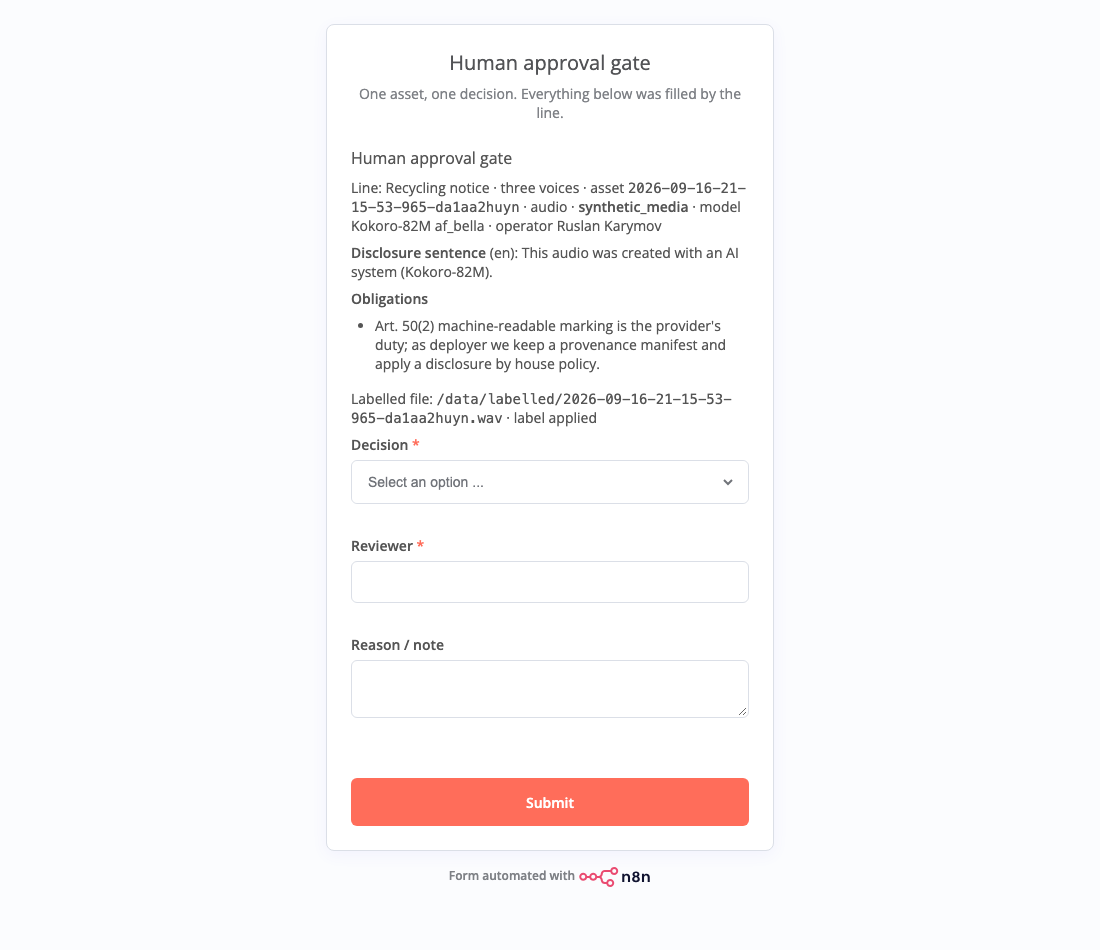
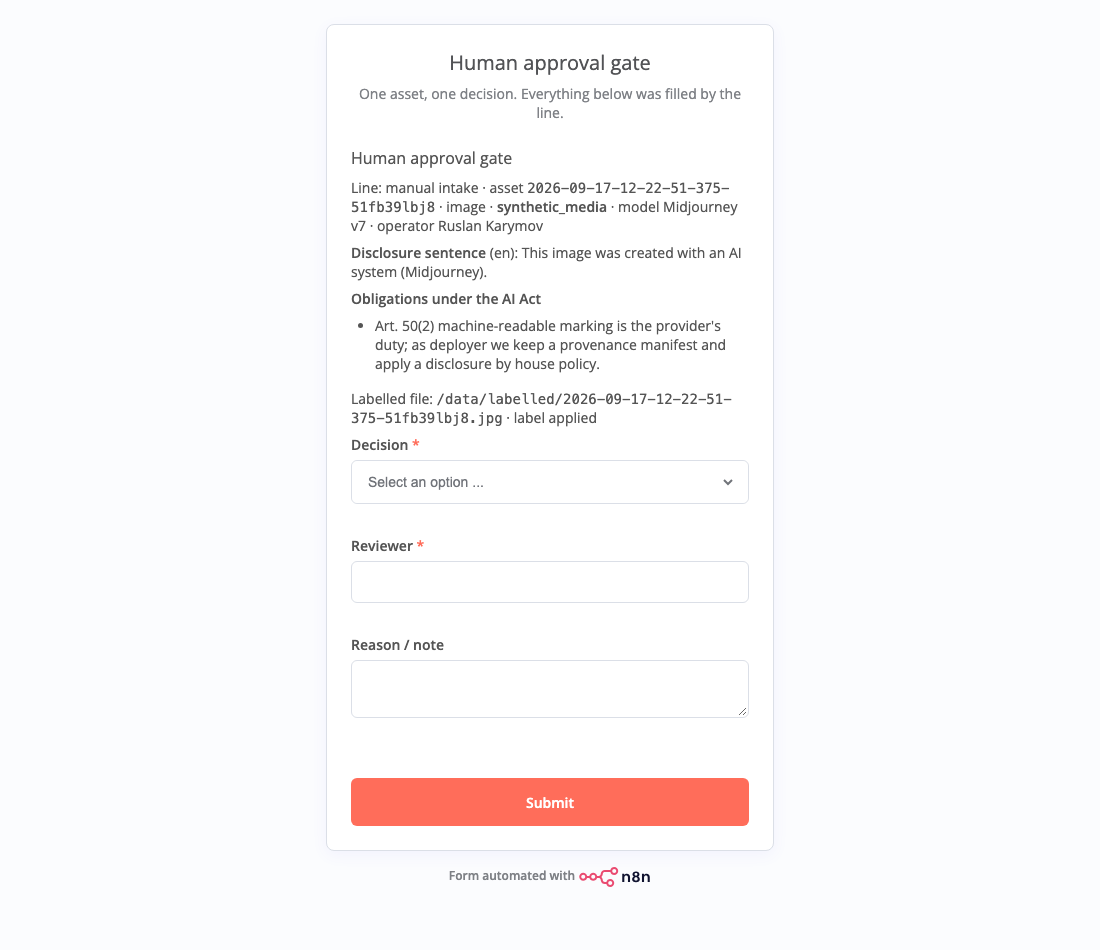
Case media regenerated from the Postgres ledger: audit view with chain verification, gate, map

Changed region(s): [[0.3091, 0.1832, 0.68, 0.2747], [0.3709, 0.2747, 0.4945, 0.3358], [0.34, 0.4274, 0.4636, 0.4579]]

diff --git a/docs/audit-view.html b/docs/audit-view.html
@@ -19,8 +19,8 @@ code{font:12px ui-monospace,SFMono-Regular,Menlo,monospace}pre{white-space:pre-w
 .empty{padding:14px 18px;color:var(--mut);margin:0}.ev{font-size:12px;color:var(--mut)}a{color:var(--acc)}.foot{padding:8px 18px;color:var(--mut);font-size:12px}
 footer{padding:0 32px 40px;color:var(--mut);font-size:12px}
 </style></head><body>
-<header><h1>Audit view · AI Act Transparency Kit</h1><p>What the auditor reads instead of the pipeline. Deployer obligations under the EU AI Act, filled automatically by the line. Generated 2026-09-17 08:29.</p></header>
-<div class="stats"><div class="stat"><b>10</b><span>AI systems on the instance</span></div><div class="stat"><b>2</b><span>reach people uncovered</span></div><div class="stat"><b>0</b><span>need a decision</span></div><div class="stat"><b>6</b><span>synthetic media assets</span></div><div class="stat"><b>1</b><span>generated texts</span></div><div class="stat"><b>7</b><span>decisions logged</span></div><div class="stat"><b>0</b><span>awaiting a human</span></div></div>
-<main><section><div class="hd"><span class="n">1</span><h2>AI-systems registry</h2><span class="art">voluntary · supports Art. 4 literacy</span></div><p class="what">Every AI system on this n8n instance, with path analysis: from each node that calls a model, every path forward to a node that reaches people, and what stands in between. Plus every external generator declared at intake. Read from the instance, not typed by hand.</p><div class="wrap"><table><thead><tr><th>Status</th><th>Workflow / line</th><th>System (node)</th><th>Node type</th><th>Model</th><th>Reaches people via</th><th>Evidence (path)</th><th>Source</th><th>Assets</th></tr></thead><tbody><tr><td><span class="pill bad">uncovered</span></td><td>Sample: social post drafter (no gate) <span class="pill muted">inactive</span></td><td>Draft post with GPT</td><td><code>langchain.openAi</code></td><td>gpt-4o-mini</td><td>Publish to LinkedIn</td><td><span class="ev">Draft post with GPT → Voice-over (ElevenLabs) → Publish to LinkedIn — no disclosure, no human gate on this path</span></td><td>workflow node</td><td></td></tr><tr><td><span class="pill bad">uncovered</span></td><td>Sample: social post drafter (no gate) <span class="pill muted">inactive</span></td><td>Voice-over (ElevenLabs) <span class="pill warn">face/voice</span></td><td><code>httpRequest</code></td><td>api.elevenlabs.io</td><td>Publish to LinkedIn</td><td><span class="ev">Voice-over (ElevenLabs) → Publish to LinkedIn — no disclosure, no human gate on this path</span></td><td>workflow node</td><td></td></tr><tr><td><span class="pill ok">disclosed</span></td><td>Recycling notice · three voices <span class="pill ok">active</span></td><td>Kokoro TTS (local)</td><td><code>httpRequest</code></td><td>host.docker.internal:8880</td><td>Publish to site [exit]</td><td><span class="ev">Kokoro TTS (local) → Attach fields → One voice at a time → Human approved? → Prepare publish → Publish to site [exit]</span></td><td>workflow node</td><td></td></tr><tr><td><span class="pill ok">disclosed</span></td><td>manual intake</td><td>gpt-4o 2024-08</td><td><code>external generator</code></td><td>gpt-4o</td><td></td><td><span class="ev">declared at intake, passed through this kit (text), decision: editorial_exception</span></td><td>declared in manifest</td><td>1</td></tr><tr><td><span class="pill ok">disclosed</span></td><td>manual intake</td><td>Midjourney v7</td><td><code>external generator</code></td><td>Midjourney</td><td></td><td><span class="ev">declared at intake, passed through this kit (image), decision: disclosed</span></td><td>declared in manifest</td><td>1</td></tr><tr><td><span class="pill ok">disclosed</span></td><td>manual intake</td><td>ElevenLabs Multilingual v2</td><td><code>external generator</code></td><td>ElevenLabs</td><td></td><td><span class="ev">declared at intake, passed through this kit (audio), decision: disclosed</span></td><td>declared in manifest</td><td>1</td></tr><tr><td><span class="pill ok">disclosed</span></td><td>Recycling notice · three voices</td><td>Kokoro-82M af_bella</td><td><code>external generator</code></td><td>Kokoro-82M</td><td></td><td><span class="ev">declared at intake, passed through this kit (audio), decision: disclosed</span></td><td>declared in manifest</td><td>1</td></tr><tr><td><span class="pill ok">disclosed</span></td><td>Recycling notice · three voices</td><td>Kokoro-82M am_adam</td><td><code>external generator</code></td><td>Kokoro-82M</td><td></td><td><span class="ev">declared at intake, passed through this kit (audio), decision: disclosed</span></td><td>declared in manifest</td><td>1</td></tr><tr><td><span class="pill muted">internal</span></td><td>manual intake</td><td>HeyGen Avatar IV</td><td><code>external generator</code></td><td>HeyGen</td><td></td><td><span class="ev">declared at intake, passed through this kit (video), decision: returned</span></td><td>declared in manifest</td><td>1</td></tr><tr><td><span class="pill muted">internal</span></td><td>Recycling notice · three voices</td><td>Kokoro-82M bf_emma</td><td><code>external generator</code></td><td>Kokoro-82M</td><td></td><td><span class="ev">declared at intake, passed through this kit (audio), decision: returned</span></td><td>declared in manifest</td><td>1</td></tr></tbody></table></div><p class="foot">Generated 2026-09-17 08:29 · 4 workflows scanned: AI Act Transparency Kit — Audit view · AI Act Transparency Kit · Recycling notice · three voices · Sample: social post drafter (no gate)<br>Rules: internal: no path to a publishing node · disclosed: every path passes a disclosure step (this kit or a node tagged [AI disclosure]) · editorial: human gate only, text with a named responsible person · verify: destination unclear, tag it [exit] · uncovered: a path reaches people with neither · likeness: face/voice generator reaches people without disclosure</p></section><section><div class="hd"><span class="n">2</span><h2>Synthetic media and deep fakes</h2><span class="art">Art. 50(4) §1 · Art. 50(2)</span></div><p class="what">Images, video and audio. A real person depicted means deep fake: visible disclosure plus consent on file. Provenance manifest for all of them.</p><div class="wrap"><table><thead><tr><th>ID</th><th>Type</th><th>Category</th><th>Real person</th><th>Consent</th><th>Disclosure</th><th>Model</th><th>Prompt hash</th><th>Operator</th><th>Status</th><th>Artefact</th></tr></thead><tbody><tr><td><code>2026-09-17-08-29-19-642-da1aa21s0u</code></td><td>audio</td><td><span class="pill muted">synthetic_media</span></td><td>no</td><td></td><td>metadata + sentence at publication (house policy)</td><td>Kokoro-82M bf_emma</td><td><code>da1aa29f4115</code></td><td>Ruslan Karymov</td><td><span class="pill bad">returned</span></td><td>/data/labelled/2026-09-17-08-29-19-642-da1aa21s0u.wav</td></tr><tr><td><code>2026-09-17-08-28-59-374-da1aa2yzai</code></td><td>audio</td><td><span class="pill muted">synthetic_media</span></td><td>no</td><td></td><td>metadata + sentence at publication (house policy)</td><td>Kokoro-82M am_adam</td><td><code>da1aa29f4115</code></td><td>Ruslan Karymov</td><td><span class="pill ok">disclosed</span></td><td>/data/labelled/2026-09-17-08-28-59-374-da1aa2yzai.wav</td></tr><tr><td><code>2026-09-17-08-28-40-809-da1aa2cq0f</code></td><td>audio</td><td><span class="pill muted">synthetic_media</span></td><td>no</td><td></td><td>metadata + sentence at publication (house policy)</td><td>Kokoro-82M af_bella</td><td><code>da1aa29f4115</code></td><td>Ruslan Karymov</td><td><span class="pill ok">disclosed</span></td><td>/data/labelled/2026-09-17-08-28-40-809-da1aa2cq0f.wav</td></tr><tr><td><code>2026-09-17-08-28-16-279-472390r8xn</code></td><td>audio</td><td><span class="pill muted">deepfake</span></td><td>yes</td><td>consent/2026-09-16-rk-voice.pdf</td><td>metadata + sentence at publication (law)</td><td>ElevenLabs Multilingual v2</td><td><code>4723904f3e3a</code></td><td>Ruslan Karymov</td><td><span class="pill ok">disclosed</span></td><td>/data/labelled/2026-09-17-08-28-16-279-472390r8xn.mp3</td></tr><tr><td><code>2026-09-17-08-28-09-945-8aa1e5ctyb</code></td><td>video</td><td><span class="pill muted">deepfake</span></td><td>yes</td><td>consent/2026-09-16-rk-likeness.pdf</td><td>burnt-in label (law)</td><td>HeyGen Avatar IV</td><td><code>8aa1e5b510ab</code></td><td>Ruslan Karymov</td><td><span class="pill bad">returned</span></td><td>/data/labelled/2026-09-17-08-28-09-945-8aa1e5ctyb.mp4</td></tr><tr><td><code>2026-09-17-08-28-06-458-d13dccyo0s</code></td><td>image</td><td><span class="pill muted">deepfake</span></td><td>yes</td><td>consent/2026-09-16-rk-likeness.pdf</td><td>burnt-in label (law)</td><td>Midjourney v7</td><td><code>d13dcc3f986d</code></td><td>Ruslan Karymov</td><td><span class="pill ok">disclosed</span></td><td>/data/labelled/2026-09-17-08-28-06-458-d13dccyo0s.jpg</td></tr></tbody></table></div></section><section><div class="hd"><span class="n">3</span><h2>Generated text</h2><span class="art">Art. 50(4) §2</span></div><p class="what">Text published to inform the public must say it is AI-generated, unless a named person exercised editorial control and holds responsibility. The gate records which of the two applies.</p><div class="wrap"><table><thead><tr><th>ID</th><th>Public information</th><th>Disclosure</th><th>Responsible person</th><th>Model</th><th>Operator</th><th>Decided</th><th>Text</th></tr></thead><tbody><tr><td><code>2026-09-17-08-28-03-972-1f7d6d9aa1</code></td><td>yes</td><td><span class="pill warn">editorial_exception</span></td><td>Ruslan Karymov</td><td>gpt-4o</td><td>Ruslan Karymov</td><td>2026-09-17 08:28</td><td><details><summary>От 1 октомври разделното събиране на отпадъци във Варна се м…</summary><pre>От 1 октомври разделното събиране на отпадъци във Варна се мести във вторник и петък. Сините контейнери са за хартия, жълтите за пластмаса и метал, зелените за стъкло. Моля, изнасяйте контейнерите до 7 ч.</pre></details></td></tr></tbody></table></div></section><section><div class="hd"><span class="n">4</span><h2>Approval log</h2><span class="art">voluntary · Art. 26(6)-style record</span></div><p class="what">Who approved or returned what, when, and why. Human oversight as a property of the line. Record-keeping is mandatory only for high-risk systems (Art. 26(6)); this kit keeps it anyway. Reviewer identity is self-declared unless the gate is behind an authenticated channel.</p><div class="wrap"><table><thead><tr><th>Decided</th><th>ID</th><th>Reviewer</th><th>Decision</th><th>Outcome</th><th>Reason</th><th>Artefact</th><th>Execution</th></tr></thead><tbody><tr><td>2026-09-17 08:29</td><td><code>2026-09-17-08-29-19-642-da1aa21s0u</code></td><td>Ruslan Karymov</td><td>Return — needs changes</td><td><span class="pill bad">returned</span></td><td>Voice too fast for a public notice.</td><td>/data/labelled/2026-09-17-08-29-19-642-da1aa21s0u.wav</td><td><code>72</code></td></tr><tr><td>2026-09-17 08:29</td><td><code>2026-09-17-08-28-59-374-da1aa2yzai</code></td><td>Ruslan Karymov</td><td>Approve — publish with the disclosure</td><td><span class="pill ok">disclosed</span></td><td>Stock voice, disclosure in metadata and on the page.</td><td>/data/labelled/2026-09-17-08-28-59-374-da1aa2yzai.wav</td><td><code>71</code></td></tr><tr><td>2026-09-17 08:28</td><td><code>2026-09-17-08-28-40-809-da1aa2cq0f</code></td><td>Ruslan Karymov</td><td>Approve — publish with the disclosure</td><td><span class="pill ok">disclosed</span></td><td>Stock voice, disclosure in metadata and on the page.</td><td>/data/labelled/2026-09-17-08-28-40-809-da1aa2cq0f.wav</td><td><code>70</code></td></tr><tr><td>2026-09-17 08:28</td><td><code>2026-09-17-08-28-16-279-472390r8xn</code></td><td>Ruslan Karymov</td><td>Approve — publish with the disclosure</td><td><span class="pill ok">disclosed</span></td><td>Voice clone of the operator himself</td><td>/data/labelled/2026-09-17-08-28-16-279-472390r8xn.mp3</td><td><code>68</code></td></tr><tr><td>2026-09-17 08:28</td><td><code>2026-09-17-08-28-09-945-8aa1e5ctyb</code></td><td>Ruslan Karymov</td><td>Return — needs changes</td><td><span class="pill bad">returned</span></td><td>Lip sync drifts after second 8. Regenerate before publishing.</td><td>/data/labelled/2026-09-17-08-28-09-945-8aa1e5ctyb.mp4</td><td><code>67</code></td></tr><tr><td>2026-09-17 08:28</td><td><code>2026-09-17-08-28-06-458-d13dccyo0s</code></td><td>Ruslan Karymov</td><td>Approve — publish with the disclosure</td><td><span class="pill ok">disclosed</span></td><td>Consent on file, label visible bottom-left.</td><td>/data/labelled/2026-09-17-08-28-06-458-d13dccyo0s.jpg</td><td><code>66</code></td></tr><tr><td>2026-09-17 08:28</td><td><code>2026-09-17-08-28-03-972-1f7d6d9aa1</code></td><td>Ruslan Karymov</td><td>Editorial exception — I edited this text and take editorial responsibility (text only)</td><td><span class="pill warn">editorial_exception</span></td><td>Checked the dates against the municipal order and edited the last sentence. I sign this text.</td><td>text</td><td><code>65</code></td></tr></tbody></table></div></section></main>
-<footer>Scope: deployer duties under Article 50 (in force 2 Aug 2026) and Article 4. High-risk obligations (Annex III) are out of scope and not claimed. Sources: files under /data written by the “AI Act Transparency Kit” workflow.</footer>
+<header><h1>Audit view · AI Act Transparency Kit</h1><p>What the auditor reads instead of the pipeline. Deployer obligations under the EU AI Act, filled automatically by the line. Generated 2026-09-17 12:23.</p></header>
+<div class="stats"><div class="stat"><b>11</b><span>AI systems on the instance</span></div><div class="stat"><b>2</b><span>reach people uncovered</span></div><div class="stat"><b>0</b><span>need a decision</span></div><div class="stat"><b>7</b><span>synthetic media assets</span></div><div class="stat"><b>3</b><span>generated texts</span></div><div class="stat"><b>9</b><span>decisions logged</span></div><div class="stat"><b>1</b><span>awaiting a human</span></div></div>
+<main><section><div class="hd"><span class="n">!</span><h2>Awaiting a human</h2><span class="art">the gate · a named person decides</span></div><p class="what">Assets stopped at the gate. Open the link, decide, and the row moves to the approval log.</p><div class="wrap"><table><thead><tr><th>Since</th><th>Line</th><th>Asset</th><th>Type</th><th>Category</th><th>Model</th><th>Operator</th><th>Gate</th></tr></thead><tbody><tr><td>2026-09-17 12:22</td><td>manual intake</td><td><code>2026-09-17-12-22-51-375-51fb39lbj8</code></td><td>image</td><td><span class="pill muted">synthetic_media</span></td><td>Midjourney</td><td>Ruslan Karymov</td><td><a href="http://localhost:5678/form-waiting/18?signature=f33ae8c598be295a239de155cc55b2e4da4c84144cc12c241e669cae9f25308f">open the gate →</a></td></tr></tbody></table></div></section><section><div class="hd"><span class="n">1</span><h2>AI-systems registry</h2><span class="art">voluntary · supports Art. 4 literacy</span></div><p class="what">Every AI system on this n8n instance, with path analysis: from each node that calls a model, every path forward to a node that reaches people, and what stands in between. Plus every external generator declared at intake. Read from the instance, not typed by hand.</p><div class="wrap"><table><thead><tr><th>Status</th><th>Workflow / line</th><th>System (node)</th><th>Node type</th><th>Model</th><th>Reaches people via</th><th>Evidence (path)</th><th>Source</th><th>Assets</th></tr></thead><tbody><tr><td><span class="pill bad">uncovered</span></td><td>Sample: social post drafter (no gate) <span class="pill muted">inactive</span></td><td>Draft post with GPT</td><td><code>langchain.openAi</code></td><td>gpt-4o-mini</td><td>Publish to LinkedIn</td><td><span class="ev">Draft post with GPT → Voice-over (ElevenLabs) → Publish to LinkedIn — no disclosure, no human gate on this path</span></td><td>workflow node</td><td></td></tr><tr><td><span class="pill bad">uncovered</span></td><td>Sample: social post drafter (no gate) <span class="pill muted">inactive</span></td><td>Voice-over (ElevenLabs) <span class="pill warn">face/voice</span></td><td><code>httpRequest</code></td><td>api.elevenlabs.io</td><td>Publish to LinkedIn</td><td><span class="ev">Voice-over (ElevenLabs) → Publish to LinkedIn — no disclosure, no human gate on this path</span></td><td>workflow node</td><td></td></tr><tr><td><span class="pill ok">disclosed</span></td><td>Recycling notice · three voices <span class="pill ok">active</span></td><td>Kokoro TTS (local)</td><td><code>httpRequest</code></td><td>host.docker.internal:8880</td><td>Publish to site [exit]</td><td><span class="ev">Kokoro TTS (local) → Attach fields → One voice at a time → Human approved? → Prepare publish → Publish to site [exit]</span></td><td>workflow node</td><td></td></tr><tr><td><span class="pill ok">disclosed</span></td><td>manual intake</td><td>gpt-4o 2024-08</td><td><code>external generator</code></td><td>gpt-4o</td><td></td><td><span class="ev">declared at intake, passed through this kit (text), decision: editorial_exception</span></td><td>declared in manifest</td><td>1</td></tr><tr><td><span class="pill ok">disclosed</span></td><td>manual intake</td><td>Midjourney v7</td><td><code>external generator</code></td><td>Midjourney</td><td></td><td><span class="ev">declared at intake, passed through this kit (image), decision: disclosed</span></td><td>declared in manifest</td><td>1</td></tr><tr><td><span class="pill ok">disclosed</span></td><td>manual intake</td><td>ElevenLabs Multilingual v2</td><td><code>external generator</code></td><td>ElevenLabs</td><td></td><td><span class="ev">declared at intake, passed through this kit (audio), decision: disclosed</span></td><td>declared in manifest</td><td>1</td></tr><tr><td><span class="pill ok">disclosed</span></td><td>Recycling notice · three voices</td><td>Kokoro-82M af_bella</td><td><code>external generator</code></td><td>Kokoro-82M</td><td></td><td><span class="ev">declared at intake, passed through this kit (audio), decision: disclosed</span></td><td>declared in manifest</td><td>1</td></tr><tr><td><span class="pill ok">disclosed</span></td><td>Recycling notice · three voices</td><td>Kokoro-82M am_adam</td><td><code>external generator</code></td><td>Kokoro-82M</td><td></td><td><span class="ev">declared at intake, passed through this kit (audio), decision: disclosed</span></td><td>declared in manifest</td><td>1</td></tr><tr><td><span class="pill ok">disclosed</span></td><td>manual intake</td><td>gpt-4o</td><td><code>external generator</code></td><td>gpt-4o</td><td></td><td><span class="ev">declared at intake, passed through this kit (text), decision: not_required</span></td><td>declared in manifest</td><td>2</td></tr><tr><td><span class="pill muted">internal</span></td><td>manual intake</td><td>HeyGen Avatar IV</td><td><code>external generator</code></td><td>HeyGen</td><td></td><td><span class="ev">declared at intake, passed through this kit (video), decision: returned</span></td><td>declared in manifest</td><td>1</td></tr><tr><td><span class="pill muted">internal</span></td><td>Recycling notice · three voices</td><td>Kokoro-82M bf_emma</td><td><code>external generator</code></td><td>Kokoro-82M</td><td></td><td><span class="ev">declared at intake, passed through this kit (audio), decision: returned</span></td><td>declared in manifest</td><td>1</td></tr></tbody></table></div><p class="foot">Generated 2026-09-17 12:22 · 4 workflows scanned: AI Act Transparency Kit — Audit view · AI Act Transparency Kit · Recycling notice · three voices · Sample: social post drafter (no gate)<br>Rules: internal: no path to a publishing node · disclosed: every path passes a disclosure step (this kit or a node tagged [AI disclosure]) · editorial: human gate only, text with a named responsible person · verify: destination unclear, tag it [exit] · uncovered: a path reaches people with neither · likeness: face/voice generator reaches people without disclosure</p></section><section><div class="hd"><span class="n">2</span><h2>Synthetic media and deep fakes</h2><span class="art">Art. 50(4) §1 · Art. 50(2)</span></div><p class="what">Images, video and audio. A real person depicted means deep fake: visible disclosure plus consent on file. Provenance manifest for all of them.</p><div class="wrap"><table><thead><tr><th>ID</th><th>Type</th><th>Category</th><th>Real person</th><th>Consent</th><th>Disclosure</th><th>Model</th><th>Prompt hash</th><th>Operator</th><th>Status</th><th>Artefact</th></tr></thead><tbody><tr><td><code>2026-09-17-12-22-51-375-51fb39lbj8</code></td><td>image</td><td><span class="pill muted">synthetic_media</span></td><td>no</td><td></td><td>burnt-in label (house policy)</td><td>Midjourney v7</td><td><code>51fb39824b68</code></td><td>Ruslan Karymov</td><td><span class="pill warn">pending_review</span></td><td>/data/labelled/2026-09-17-12-22-51-375-51fb39lbj8.jpg</td></tr><tr><td><code>2026-09-17-11-33-46-897-da1aa2su8g</code></td><td>audio</td><td><span class="pill muted">synthetic_media</span></td><td>no</td><td></td><td>metadata + sentence at publication (house policy)</td><td>Kokoro-82M bf_emma</td><td><code>da1aa29f4115</code></td><td>Ruslan Karymov</td><td><span class="pill bad">returned</span></td><td>/data/labelled/2026-09-17-11-33-46-897-da1aa2su8g.wav</td></tr><tr><td><code>2026-09-17-11-33-24-033-da1aa2p0b0</code></td><td>audio</td><td><span class="pill muted">synthetic_media</span></td><td>no</td><td></td><td>metadata + sentence at publication (house policy)</td><td>Kokoro-82M am_adam</td><td><code>da1aa29f4115</code></td><td>Ruslan Karymov</td><td><span class="pill ok">disclosed</span></td><td>/data/labelled/2026-09-17-11-33-24-033-da1aa2p0b0.wav</td></tr><tr><td><code>2026-09-17-11-32-52-048-da1aa2nr28</code></td><td>audio</td><td><span class="pill muted">synthetic_media</span></td><td>no</td><td></td><td>metadata + sentence at publication (house policy)</td><td>Kokoro-82M af_bella</td><td><code>da1aa29f4115</code></td><td>Ruslan Karymov</td><td><span class="pill ok">disclosed</span></td><td>/data/labelled/2026-09-17-11-32-52-048-da1aa2nr28.wav</td></tr><tr><td><code>2026-09-17-11-31-58-053-472390uenf</code></td><td>audio</td><td><span class="pill muted">deepfake</span></td><td>yes</td><td>consent/2026-09-16-rk-voice.pdf</td><td>metadata + sentence at publication (law)</td><td>ElevenLabs Multilingual v2</td><td><code>4723904f3e3a</code></td><td>Ruslan Karymov</td><td><span class="pill ok">disclosed</span></td><td>/data/labelled/2026-09-17-11-31-58-053-472390uenf.mp3</td></tr><tr><td><code>2026-09-17-11-31-51-600-8aa1e5sdnv</code></td><td>video</td><td><span class="pill muted">deepfake</span></td><td>yes</td><td>consent/2026-09-16-rk-likeness.pdf</td><td>burnt-in label (law)</td><td>HeyGen Avatar IV</td><td><code>8aa1e5b510ab</code></td><td>Ruslan Karymov</td><td><span class="pill bad">returned</span></td><td>/data/labelled/2026-09-17-11-31-51-600-8aa1e5sdnv.mp4</td></tr><tr><td><code>2026-09-17-11-31-47-862-d13dccuvjf</code></td><td>image</td><td><span class="pill muted">deepfake</span></td><td>yes</td><td>consent/2026-09-16-rk-likeness.pdf</td><td>burnt-in label (law)</td><td>Midjourney v7</td><td><code>d13dcc3f986d</code></td><td>Ruslan Karymov</td><td><span class="pill ok">disclosed</span></td><td>/data/labelled/2026-09-17-11-31-47-862-d13dccuvjf.jpg</td></tr></tbody></table></div></section><section><div class="hd"><span class="n">3</span><h2>Generated text</h2><span class="art">Art. 50(4) §2</span></div><p class="what">Text published to inform the public must say it is AI-generated, unless a named person exercised editorial control and holds responsibility. The gate records which of the two applies.</p><div class="wrap"><table><thead><tr><th>ID</th><th>Public information</th><th>Disclosure</th><th>Responsible person</th><th>Model</th><th>Operator</th><th>Decided</th><th>Text</th></tr></thead><tbody><tr><td><code>2026-09-17-12-22-03-361-18aaa6yygm</code></td><td>no</td><td><span class="pill muted">not_required</span></td><td></td><td>gpt-4o</td><td>Ruslan Karymov</td><td>2026-09-17 12:22</td><td><details><summary>Support: the new schedule starts 1 October.…</summary><pre>Support: the new schedule starts 1 October.</pre></details></td></tr><tr><td><code>2026-09-17-12-17-15-317-18aaa6s3mh</code></td><td>no</td><td><span class="pill muted">not_required</span></td><td></td><td>gpt-4o</td><td>Ruslan Karymov</td><td>2026-09-17 12:17</td><td><details><summary>Support: the new schedule starts 1 October.…</summary><pre>Support: the new schedule starts 1 October.</pre></details></td></tr><tr><td><code>2026-09-17-11-31-45-475-1f7d6dnkrg</code></td><td>yes</td><td><span class="pill warn">editorial_exception</span></td><td>Ruslan Karymov</td><td>gpt-4o</td><td>Ruslan Karymov</td><td>2026-09-17 11:31</td><td><details><summary>От 1 октомври разделното събиране на отпадъци във Варна се м…</summary><pre>От 1 октомври разделното събиране на отпадъци във Варна се мести във вторник и петък. Сините контейнери са за хартия, жълтите за пластмаса и метал, зелените за стъкло. Моля, изнасяйте контейнерите до 7 ч.</pre></details></td></tr></tbody></table></div></section><section><div class="hd"><span class="n">4</span><h2>Approval log</h2><span class="art">voluntary · Art. 26(6)-style record</span></div><p class="what">Who approved or returned what, when, and why. Append-only in Postgres: the database refuses updates and deletes, and every row carries the hash of the previous one. Record-keeping is mandatory only for high-risk systems (Art. 26(6)); this kit keeps it anyway. Reviewer identity is self-declared unless the gate is behind an authenticated channel.</p><div class="wrap"><table><thead><tr><th>Decided</th><th>ID</th><th>Reviewer</th><th>Decision</th><th>Outcome</th><th>Reason</th><th>Artefact</th><th>Hash</th><th>Execution</th></tr></thead><tbody><tr><td>2026-09-17 12:22</td><td><code>2026-09-17-12-22-03-361-18aaa6yygm</code></td><td>Ruslan Karymov</td><td>Approve — publish with the disclosure</td><td><span class="pill muted">not_required</span></td><td>Internal only.</td><td>text</td><td><code title="6a667c726b3373f696f6a475fa93791537167b2fcef5c0c3aa37a91cb626e7c6 → ea41b9468e23811db45f21777e0f62d39236af24b3870a531439f233a492ed72">ea41b9468e</code></td><td><code>16</code></td></tr><tr><td>2026-09-17 12:17</td><td><code>2026-09-17-12-17-15-317-18aaa6s3mh</code></td><td>Ruslan Karymov</td><td>Approve — publish with the disclosure</td><td><span class="pill muted">not_required</span></td><td>Internal only.</td><td>text</td><td><code title="e770e4025f9d4499b286858086b3e5ffb57c84a66aa8b82d6ff9650f10738f2c → 6a667c726b3373f696f6a475fa93791537167b2fcef5c0c3aa37a91cb626e7c6">6a667c726b</code></td><td><code>15</code></td></tr><tr><td>2026-09-17 11:34</td><td><code>2026-09-17-11-33-46-897-da1aa2su8g</code></td><td>Ruslan Karymov</td><td>Return — needs changes</td><td><span class="pill bad">returned</span></td><td>Voice too fast for a public notice.</td><td>/data/labelled/2026-09-17-11-33-46-897-da1aa2su8g.wav</td><td><code title="95e5df251a5d2e0162eb2f6db0fddc55e61d4ef846a2968ae2438cbbd7208f9b → e770e4025f9d4499b286858086b3e5ffb57c84a66aa8b82d6ff9650f10738f2c">e770e4025f</code></td><td><code>11</code></td></tr><tr><td>2026-09-17 11:33</td><td><code>2026-09-17-11-33-24-033-da1aa2p0b0</code></td><td>Ruslan Karymov</td><td>Approve — publish with the disclosure</td><td><span class="pill ok">disclosed</span></td><td>Stock voice, disclosure in metadata and on the page.</td><td>/data/labelled/2026-09-17-11-33-24-033-da1aa2p0b0.wav</td><td><code title="84bc8577e4a5ae5361a1c5fb77e4fec5af096debcf0aa011f7a50a5f668b7836 → 95e5df251a5d2e0162eb2f6db0fddc55e61d4ef846a2968ae2438cbbd7208f9b">95e5df251a</code></td><td><code>10</code></td></tr><tr><td>2026-09-17 11:33</td><td><code>2026-09-17-11-32-52-048-da1aa2nr28</code></td><td>Ruslan Karymov</td><td>Approve — publish with the disclosure</td><td><span class="pill ok">disclosed</span></td><td>Stock voice, disclosure in metadata and on the page.</td><td>/data/labelled/2026-09-17-11-32-52-048-da1aa2nr28.wav</td><td><code title="da4698a49f17d3894f1f1785807694e51cc02066e4fb6f0fc0a15288dd853763 → 84bc8577e4a5ae5361a1c5fb77e4fec5af096debcf0aa011f7a50a5f668b7836">84bc8577e4</code></td><td><code>8</code></td></tr><tr><td>2026-09-17 11:32</td><td><code>2026-09-17-11-31-58-053-472390uenf</code></td><td>Ruslan Karymov</td><td>Approve — publish with the disclosure</td><td><span class="pill ok">disclosed</span></td><td>Voice clone of the operator himself</td><td>/data/labelled/2026-09-17-11-31-58-053-472390uenf.mp3</td><td><code title="55480b2b764fb5a65145e5ecb66943e63fb37e65b2f629b3a08ac753f535121a → da4698a49f17d3894f1f1785807694e51cc02066e4fb6f0fc0a15288dd853763">da4698a49f</code></td><td><code>5</code></td></tr><tr><td>2026-09-17 11:31</td><td><code>2026-09-17-11-31-51-600-8aa1e5sdnv</code></td><td>Ruslan Karymov</td><td>Return — needs changes</td><td><span class="pill bad">returned</span></td><td>Lip sync drifts after second 8. Regenerate before publishing.</td><td>/data/labelled/2026-09-17-11-31-51-600-8aa1e5sdnv.mp4</td><td><code title="6796d533c3a3239e5a1265bbedba761d973c0cd9339aa2fb21dde4d0ff331a1a → 55480b2b764fb5a65145e5ecb66943e63fb37e65b2f629b3a08ac753f535121a">55480b2b76</code></td><td><code>4</code></td></tr><tr><td>2026-09-17 11:31</td><td><code>2026-09-17-11-31-47-862-d13dccuvjf</code></td><td>Ruslan Karymov</td><td>Approve — publish with the disclosure</td><td><span class="pill ok">disclosed</span></td><td>Consent on file, label visible bottom-left.</td><td>/data/labelled/2026-09-17-11-31-47-862-d13dccuvjf.jpg</td><td><code title="88a7454ac9a8b154b2c4bc4736a951743d20c36cf2c77ade24bf68ec8ee015bb → 6796d533c3a3239e5a1265bbedba761d973c0cd9339aa2fb21dde4d0ff331a1a">6796d533c3</code></td><td><code>3</code></td></tr><tr><td>2026-09-17 11:31</td><td><code>2026-09-17-11-31-45-475-1f7d6dnkrg</code></td><td>Ruslan Karymov</td><td>Editorial exception — I edited this text and take editorial responsibility (text only)</td><td><span class="pill warn">editorial_exception</span></td><td>Checked the dates against the municipal order and edited the last sentence. I sign this text.</td><td>text</td><td><code title="genesis → 88a7454ac9a8b154b2c4bc4736a951743d20c36cf2c77ade24bf68ec8ee015bb">88a7454ac9</code></td><td><code>2</code></td></tr></tbody></table></div></section></main>
+<footer>Ledger: 9 decisions in Postgres, append-only, hash-chained · <b style="color:var(--ok)">chain verified</b> · head <code>ea41b9468e23811d…</code><br>Scope: deployer duties under Article 50 (in force 2 Aug 2026) and Article 4. High-risk obligations (Annex III) are out of scope and not claimed. Sources: files under /data written by the “AI Act Transparency Kit” workflow.</footer>
 </body></html>
